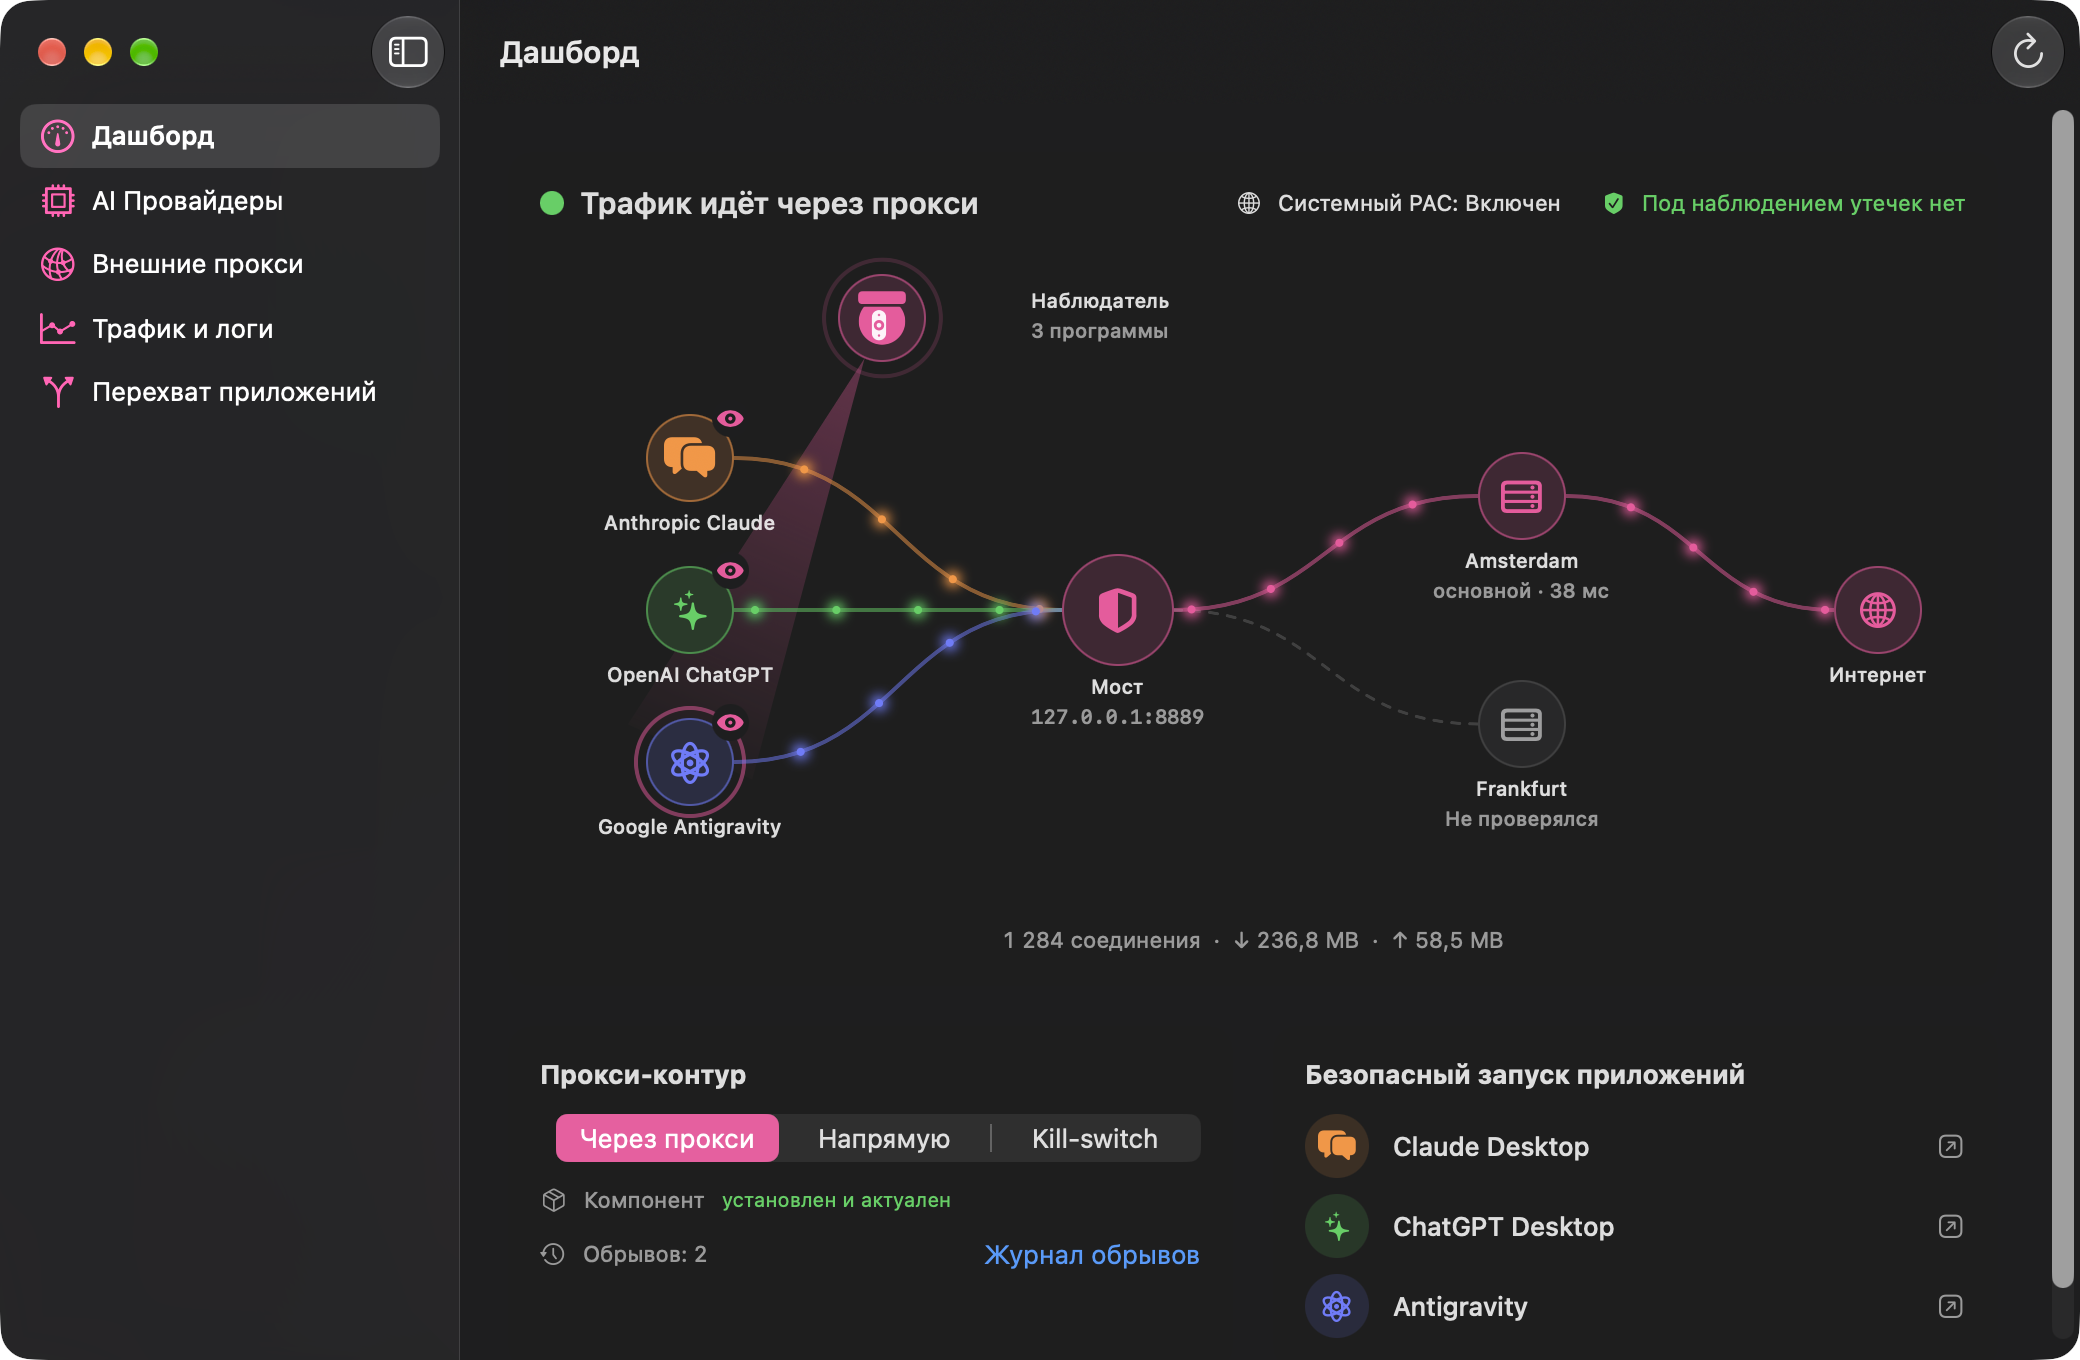
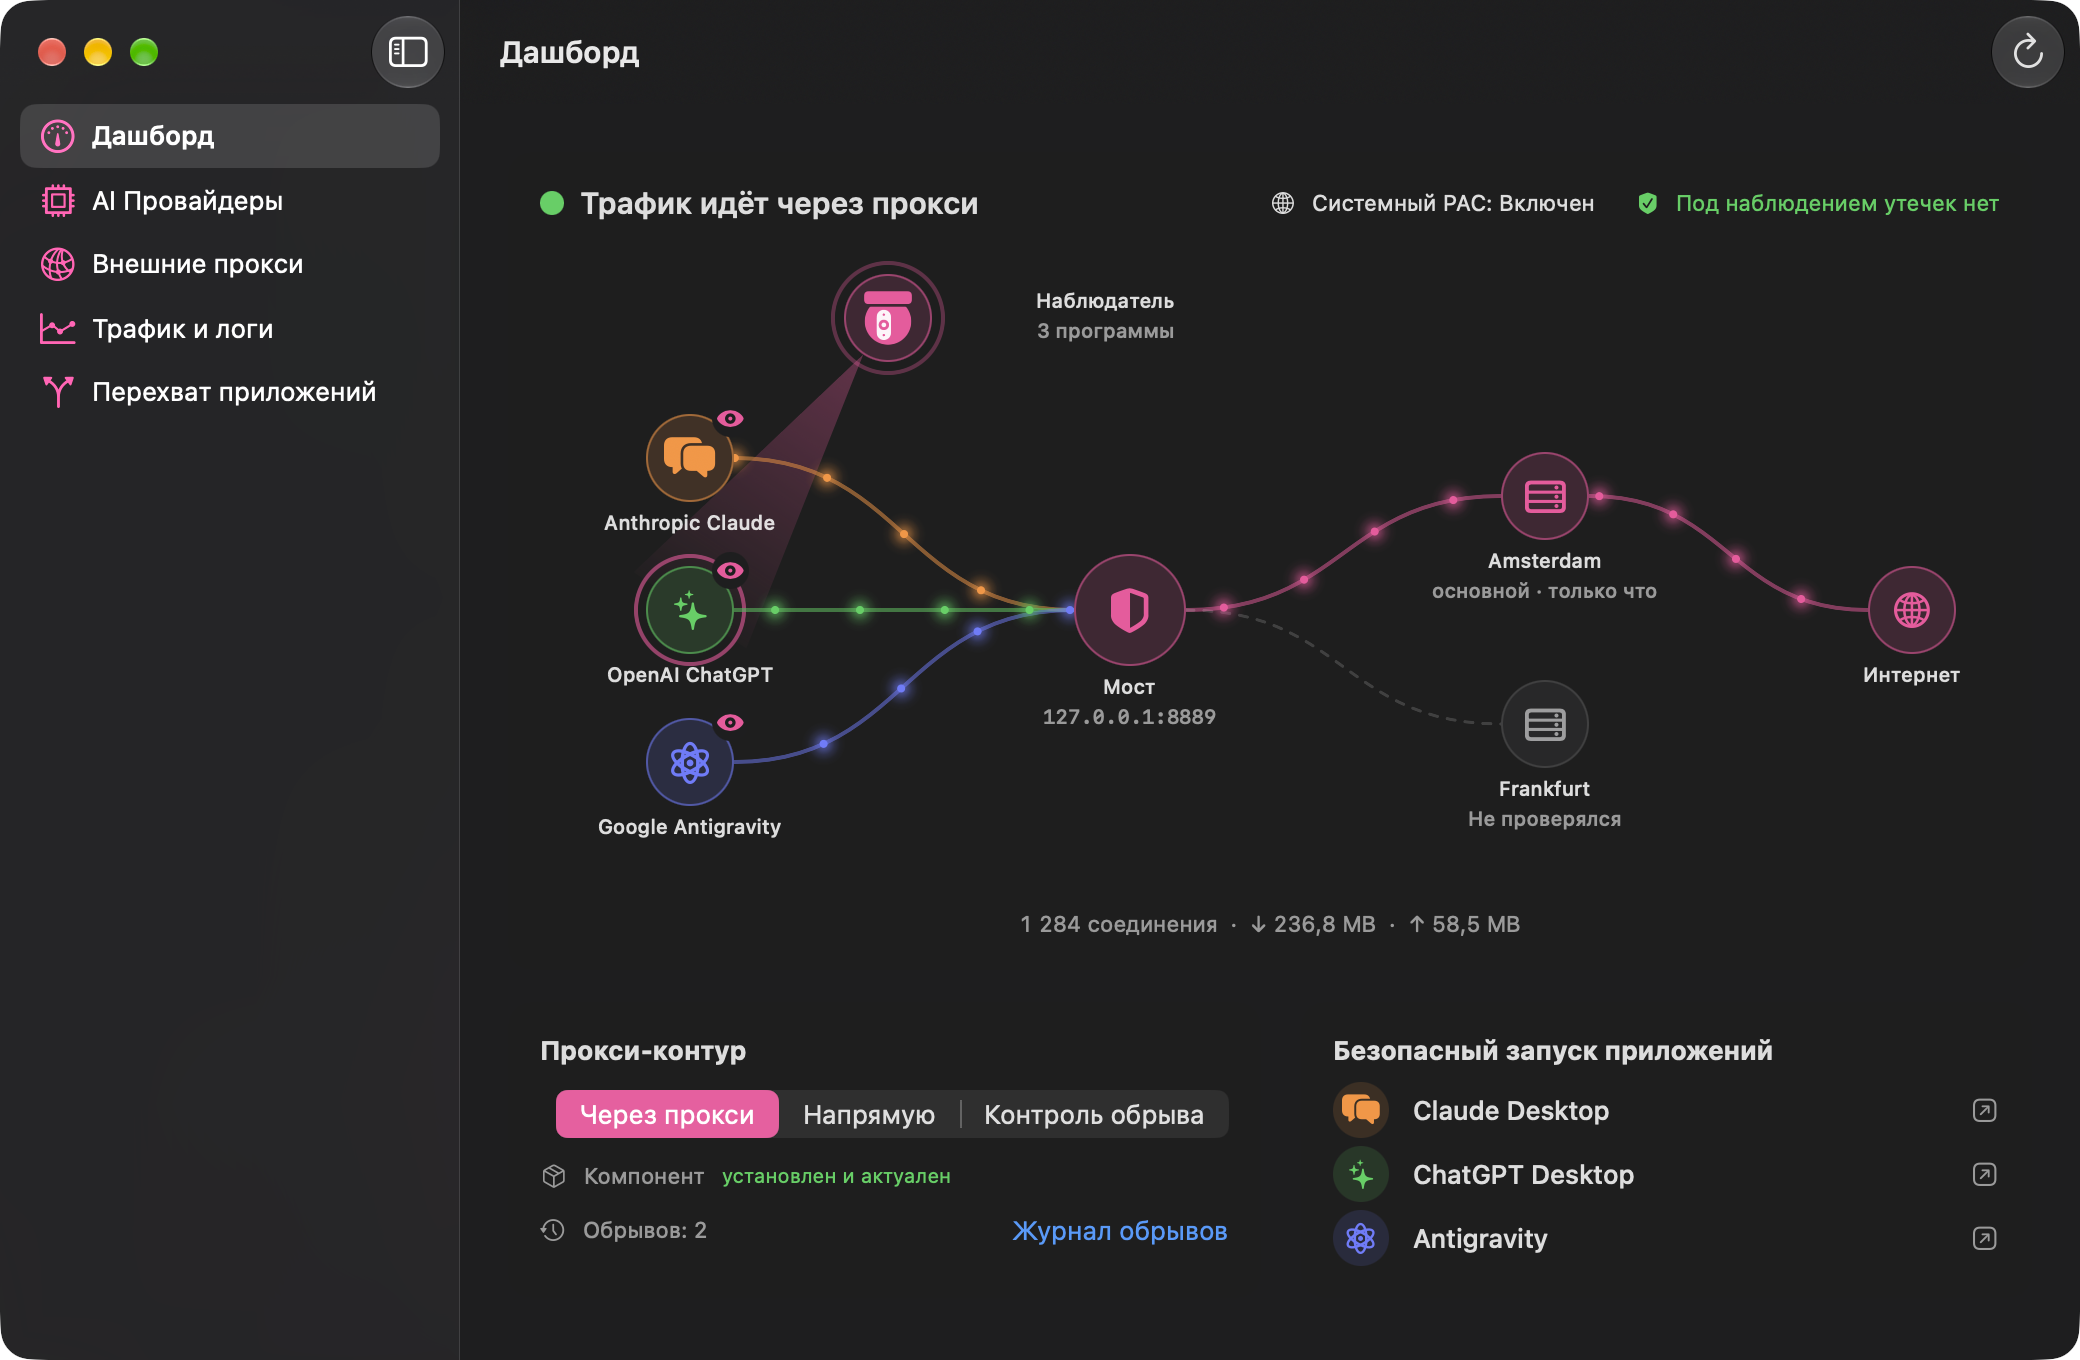
AIProxy 1.2.5

diff --git a/CHANGELOG.md b/CHANGELOG.md
@@ -1,5 +1,26 @@
 # Что нового в AIProxy
 
+## 1.2.5 · 18 ноября 2026
+
+**Обрывы**
+
+- AIProxy сообщает об обрыве и восстановлении прокси уведомлением macOS. Если что-то случилось, пока программа была закрыта, при запуске придёт одна сводка за последние сутки.
+- Новая кнопка «Повторить подключение прокси» на главном экране и в строке меню. Она поднимает зависший или остановленный мост и проверяет связь через прокси, не меняя режим защиты. Кнопка видна, только когда связь оборвана.
+- Если защиту сняли вне AIProxy, кнопка не запустит мост впустую, а скажет, что защита выключена.
+- Длительность обрыва считается точно, до секунды.
+
+**Обновления**
+
+- Перед открытием скачанного образа AIProxy проверяет подпись разработчика и номер версии внутри. Подменённый образ не откроется, даже если контрольная сумма совпала.
+
+**Внешний вид**
+
+- Главный экран снова помещается в окно без прокрутки.
+- Под прокси на схеме видно, когда он проверялся в последний раз.
+- Понятные слова вместо технических: режим «Контроль обрыва», значки «Через прокси» и «Напрямую», простые пояснения у сервисов.
+- «Перехват приложений» во время поиска пишет «Ищу программы…».
+- Значок в строке меню стал крупнее, схема на главном экране тратит вдвое меньше процессора.
+
 ## 1.2.4 · 4 ноября 2026
 
 - При смене основного SOCKS5-прокси мост и детектор обрыва берут адрес нового профиля для следующих соединений без перезапуска моста. Переключение проверено на изолированном стенде с двумя прокси; живой резервный профиль не проверялся.
